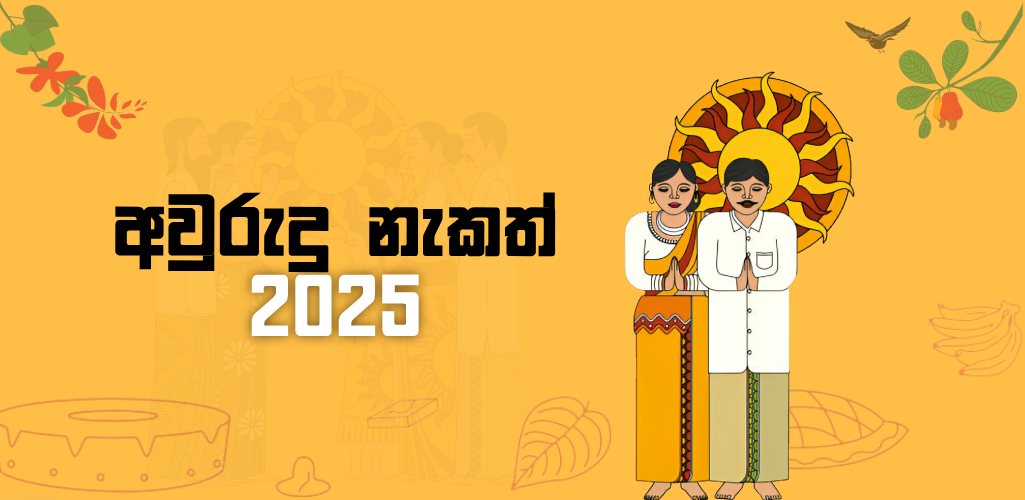
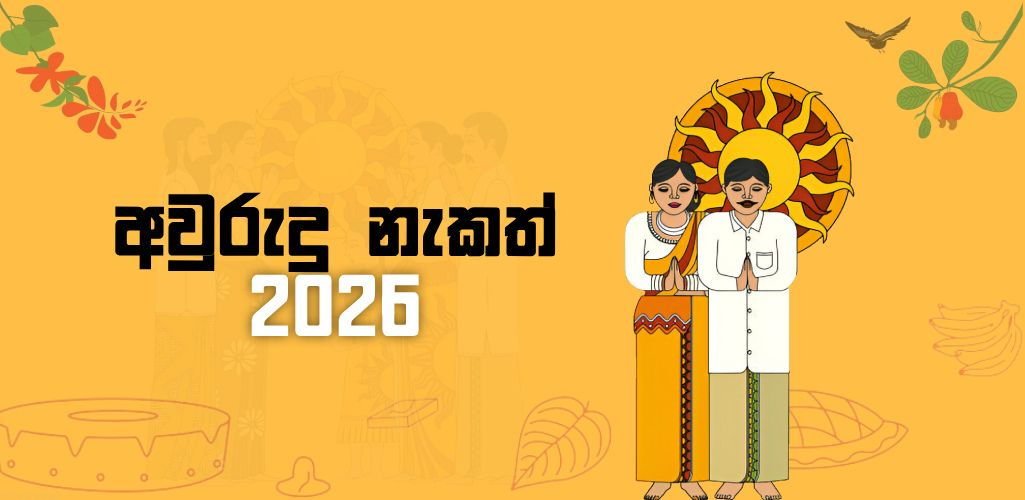
change 2026

diff --git a/lib/data/data.dart b/lib/data/data.dart
@@ -21,72 +21,90 @@ List<DataModel> dataList = [
     id: 1,
     name: "නව සඳ බැලීම",
     time: "00:01 AM",
-    date: "2025-03-30",
+    date: "2026-03-20",
     description:
-        "අභිනව චන්ද්ර වර්ෂය සඳහා මාර්තු මස 30 වැනි ඉරිදා දින ද අභිනව සූර්ය වර්ෂය සඳහා මැයි මස 01 වැනි බ්රහස්පතින්දා දින ද නව සඳ බැලීම මැනවි.",
+        "අභිනව චන්ද්ර වර්ෂය සඳහා මාර්තු මස 20 වන සිකුරාදා දින ද, අභිතව සූර්ය වර්ෂය සඳහා අප්රේල් මස 19 වන ඉරිදාදිත ද නව සඳ බැලීම මැනවි.",
     photo: "assets/nakath2.png",
   ),
   DataModel(
     id: 2,
     name: "පරණ අවුරුද්ද සඳහා ස්නානය",
     time: "00:01 AM",
-    date: "2025-04-13",
+    date: "2026-04-13",
     description:
-        "අප්රේල් මස 13 වැනි ඉරිදා දින දිඹුල්පත් යුෂ මිශ්ර නානු ගා ස්නානයකොට ඉෂ්ට දේවතා අනුස්මරණයෙහි යෙදී වාසය මැනවි.",
+        "අප්රේල් මස 13 වැනි සදු දින දිවුල් පත් යුෂ මිශ්ර නානු ගා ස්නානය කොට ඉෂ්ට දේවතා අනුස්මරණයේ යෙදී වාසය මැනවි.",
     photo: "assets/nakath2.png",
   ),
   DataModel(
     id: 3,
     name: "අලුත් අවුරුදු උදාව",
-    time: "03:21 PM",
-    date: "2025-04-14",
+    time: "09:12 AM",
+    date: "2026-04-14",
     description:
-        "අප්රේල් මස 14 වැනි සඳුදා දින පූර්වභාග 03.21ට සිංහල අලුත් අවුරුද්ද උදා වෙයි.",
+        "අප්රේල් මස 14 වැනි අඟහරුවාදා පූර්ව භාග 09.32 ට සිංහල අලූත් අවුරුද්ද උදාවෙයි.",
     photo: "assets/nakath2.png",
   ),
   DataModel(
     id: 4,
     name: "පුණ්ය කාලය",
-    time: "08:57 PM",
-    date: "2025-04-13",
+    time: "03:08 AM",
+    date: "2026-04-14",
     description:
-        "අප්රේල් මස 13 වැනි ඉරිදා අපරභාග 08.57 සිට පසුදින එනම් 14 වැනි සඳුදා පූර්වභාග 09.45 දක්වා පුණ්ය කාලය බැවින් අප්රේල් මස 13 වැනි ඉරිදා අපරභාග 08.57ට පළමුව ආහාර පාන ගෙන සියලු වැඩ අත්හැර ආගමික වතාවත්වල යෙදීම ද, පුණ්ය කාලයේ අපර කොටස එනම් අප්රේල් මස 14 වැනි සඳුදා පූර්වභාග 03.21 සිට 14 වැනි සඳුදා පූර්වභාග 09.45 දක්වා පහත දැක්වෙන අයුරින් ආහාර පිසීම, වැඩ ඇල්ලීම, ගනු දෙනු කිරීම හා ආහර අනුභවය ආදී නැකත් චාරිත්ර විධි ඉටු කිර්ම මැනවි.",
+        "අප්රේල් මස 14 වැනි අගහරුවාදා පූර්ව භාග 03.08 සිට එදිනම අපර භාග 03.56 දක්වා පුණ්ය කාලය බැවින් අප්රේල් මස 14 වන අගහරුවාදා පූර්ව භාග 03.08 ට පළමුව ආහාර පාන ගෙන සියලු වැඩ අත්හැර ආගමික වතාවත් වල යෙදීමද, පුණ්ය කාලයේ අපර කොටස එනම් අප්රේල් මස 14 වන අඟහරුවාදා පූර්ව භාග 09.32 සිට එදින අපර භාග 08.56 දක්වා ආහාර පිසීම, වැඩ ඇල්ලීම, ගණුදෙනු කිරීම හා ආහාර අනුභවය ආදී නැකත් චාරිත්ර විධි ඉටු කිරීම මැනවි.",
     photo: "assets/nakath3.png",
   ),
   DataModel(
     id: 5,
     name: "ආහාර පිසීම",
-    time: "04:04 AM",
-    date: "2025-04-14",
+    time: "10:41 AM",
+    date: "2026-04-14",
     description:
-        "අප්රේල් මස 14 වැනි සඳුදා පූර්වභාග 04.04ට තඹ වර්ණ වස්ත්රාභරණයෙන් සැරසී දකුණු දිශාව බලා ළිප් බැඳ ගිනි මොළවා කිරිබතක් ද කැවිලි වර්ගයක් ද දී කිරි සහ විලඳ ද පිළියෙල කර ගැනීම මැනවි.",
+        "අප්රේල් මස 14 වෙනි අගහරුවාදා පූර්ව භාග 10.41 ට රක්ත වර්ණ වස්ත්රාභරණයෙන් සැරසී දකුණු දිශාව බලා ලිප් බැඳ ගිණි මොලවා කිරි බතක්ද, කැවිලි වර්ගයක්ද, දී කිරි වලද ද, පිලියෙල කර ගැනීම මැනවි.",
     photo: "assets/cooking.png",
   ),
   DataModel(
     id: 6,
     name: "වැඩ ඇල්ලීම, ගනුදෙනු කිරීම හා ආහාර අනුභවය",
-    time: "06:44 AM",
-    date: "2025-04-14",
+    time: "12:05 PM",
+    date: "2026-04-14",
     description:
-        "අප්රේල් මස 14 වැනි සඳුදා පූර්වභාග 06.44ට මුතු හා ශ්වේත වර්ණ වස්ත්රාභරණයෙන් සැරසී දකුණු දිශාව බලා සියලු වැඩ අල්ලා ගනුදෙනු කොට ආහාර අනුභව කිරීම මැනවි.",
+        "අප්රේල් මස 14 වෙනි අඟහරුවාදා අපර භාග 12.05 ට රක්ත වර්ණ වස්ත්රාභරණයෙන් සැරසී දකුණු දිශාව බලා සියලු වැඩ අල්ලා ගනුදෙනු කොට ආහාර අනුභවය කිරීම මැනවි.",
     photo: "assets/nakath3.png",
   ),
   DataModel(
     id: 7,
     name: "හිස තෙල් ගෑම",
-    time: "09:04 PM",
-    date: "2025-04-16",
+    time: "06:54 AM",
+    date: "2026-04-15",
     description:
-        "අප්රේල් මස 16 වැනි බදාදා පූර්වභාග 09.04ට පච්ච වර්ණ හෙවත් කොළ පැහැති වස්ත්රාභරණයෙන් සැරසී උතුරු දිශාව බලා හිසට කොහොඹ පත් ද, පයට කොළොන් පත් ද තබා කොහොඹ පත් යුෂ මිශ්ර නානු හා තෙල් ගා ස්නානය කිරීම මැනවි.",
+        "අප්රේල් මස 15 වෙහි බදාදා පූර්ව භාග 06.54 ට නැගෙනහිර දිශාව බලා හිසට කොහොඹ පත්ද, පයට කොළොන් පද, තබා පච්ච වර්ගා වස්ත්රාභරණයෙන් සැරසී කොහොඹ පත් යුෂ මිශ්ර නානු හා තෙල් ගා ස්නානය කිරීම මැනවි.",
     photo: "assets/nakath2.png",
   ),
   DataModel(
     id: 8,
     name: "රැකීරක්ෂා සඳහා පිටත්ව යෑම",
-    time: "09:03 PM",
-    date: "2025-04-17",
+    time: "06:27 AM",
+    date: "2026-04-20",
     description:
-        "අප්රේල් මස 17 වැනි බ්රහස්පතින්දා පූර්වභාග 09.03ට රන්වන් පැහැති වස්ත්රාභරණයෙන් සැරසී කිර්බතක් හා එළකිරි මිශ්ර කැවිලි වර්ගයක් අනුභව කර උතුරු දිශාව බලා පිටත්ව යෑම මැනවි.",
+        "අප්රේල් මස 20 වැනි සඳුදා පූර්ව භාග 06.27 ට ශ්වේත වර්ණ වස්ත්රාභරණයෙන් සැරසී කිරිබත් සහ එළකිරි මිශ්ර කැවිලිද අනුභව කර දකුණු දිශාව බලා පිටත් වීම මැනවි.",
+    photo: "assets/nakath2.png",
+  ),
+  DataModel(
+    id: 9,
+    name: "නව සඳ බැලීම",
+    time: "00:01 AM",
+    date: "2026-04-19",
+    description:
+        "අභිනව චන්ද්ර වර්ෂය සඳහා මාර්තු මස 20 වන සිකුරාදා දින ද, අභිතව සූර්ය වර්ෂය සඳහා අප්රේල් මස 19 වන ඉරිදාදිත ද නව සඳ බැලීම මැනවි.",
+    photo: "assets/nakath2.png",
+  ),
+  DataModel(
+    id: 10,
+    name: "පැළ සිටුවීමට",
+    time: "11:36 AM",
+    date: "2026-04-23",
+    description:
+        "අප්රේල් මස 23 වැනි බ්රහස්පතින්දා රන්වන් පැහැති වස්ත්රාභරණයෙන් සැරසී පූර්ව භාග 11.36 ට උතුරු දිශාව බලා පැළ සිටුවීම මැනවි.",
     photo: "assets/nakath2.png",
   ),
 ];

diff --git a/lib/HomePage.dart b/lib/HomePage.dart
@@ -44,7 +44,13 @@ class _HomePageState extends State<HomePage> {
     super.initState();
     _scrollController.addListener(_scrollListener);
 
-    // Find the next event
+    // Initialize with a default value to prevent LateInitializationError
+    if (dataList.isNotEmpty) {
+      nextEvent = dataList[0];
+      nextEventId = dataList[0].id;
+    }
+
+    // Find the actual next event
     _updateNextEvent();
 
     // Start the countdown timer
@@ -104,6 +110,12 @@ class _HomePageState extends State<HomePage> {
       setState(() {
         nextEvent = upcomingEvent!;
         nextEventId = upcomingEvent.id;
+      });
+    } else if (dataList.isNotEmpty && !dataList.contains(nextEvent)) {
+      // If no upcoming event is found, and nextEvent wasn't already set to something valid
+      // keep the default or previous value, but ensure nextEventId is consistent
+      setState(() {
+        nextEventId = nextEvent.id;
       });
     }
   }
@@ -177,8 +189,16 @@ class _HomePageState extends State<HomePage> {
     // If the target date is in the past, stop countdown and check for next event
     if (difference.isNegative) {
       _updateNextEvent();
-      // Restart the countdown with the new next event
-      _restartCountdown();
+
+      // Only restart countdown if the target date has actually changed to a future date
+      // to avoid infinite recursion if no future events exist
+      final newTargetDateTime = _parseDateTime(nextEvent.date, nextEvent.time);
+      if (!newTargetDateTime.difference(now).isNegative) {
+        _restartCountdown();
+      } else {
+        // If still in the past, just stop the timer for now
+        _countdownTimer?.cancel();
+      }
       return;
     }
 

diff --git a/lib/notification_service.dart b/lib/notification_service.dart
@@ -41,6 +41,19 @@ class NotificationService {
           IOSFlutterLocalNotificationsPlugin
         >()
         ?.requestPermissions(alert: true, badge: true, sound: true);
+
+    // Request permissions for Android (version 13+)
+    final androidPlugin =
+        _notificationsPlugin
+            .resolvePlatformSpecificImplementation<
+              AndroidFlutterLocalNotificationsPlugin
+            >();
+
+    if (androidPlugin != null) {
+      await androidPlugin.requestNotificationsPermission();
+      // On Android 12+, we need to request exact alarm permission if we want to use exact alarms
+      await androidPlugin.requestExactAlarmsPermission();
+    }
   }
 
   // Schedule notifications for all events in the data list

diff --git a/ios/Runner/AppDelegate.swift b/ios/Runner/AppDelegate.swift
@@ -2,12 +2,15 @@ import Flutter
 import UIKit
 
 @main
-@objc class AppDelegate: FlutterAppDelegate {
+@objc class AppDelegate: FlutterAppDelegate, FlutterImplicitEngineDelegate {
   override func application(
     _ application: UIApplication,
     didFinishLaunchingWithOptions launchOptions: [UIApplication.LaunchOptionsKey: Any]?
   ) -> Bool {
-    GeneratedPluginRegistrant.register(with: self)
     return super.application(application, didFinishLaunchingWithOptions: launchOptions)
+  }
+
+  func didInitializeImplicitFlutterEngine(_ engineBridge: FlutterImplicitEngineBridge) {
+    GeneratedPluginRegistrant.register(with: engineBridge.pluginRegistry)
   }
 }
